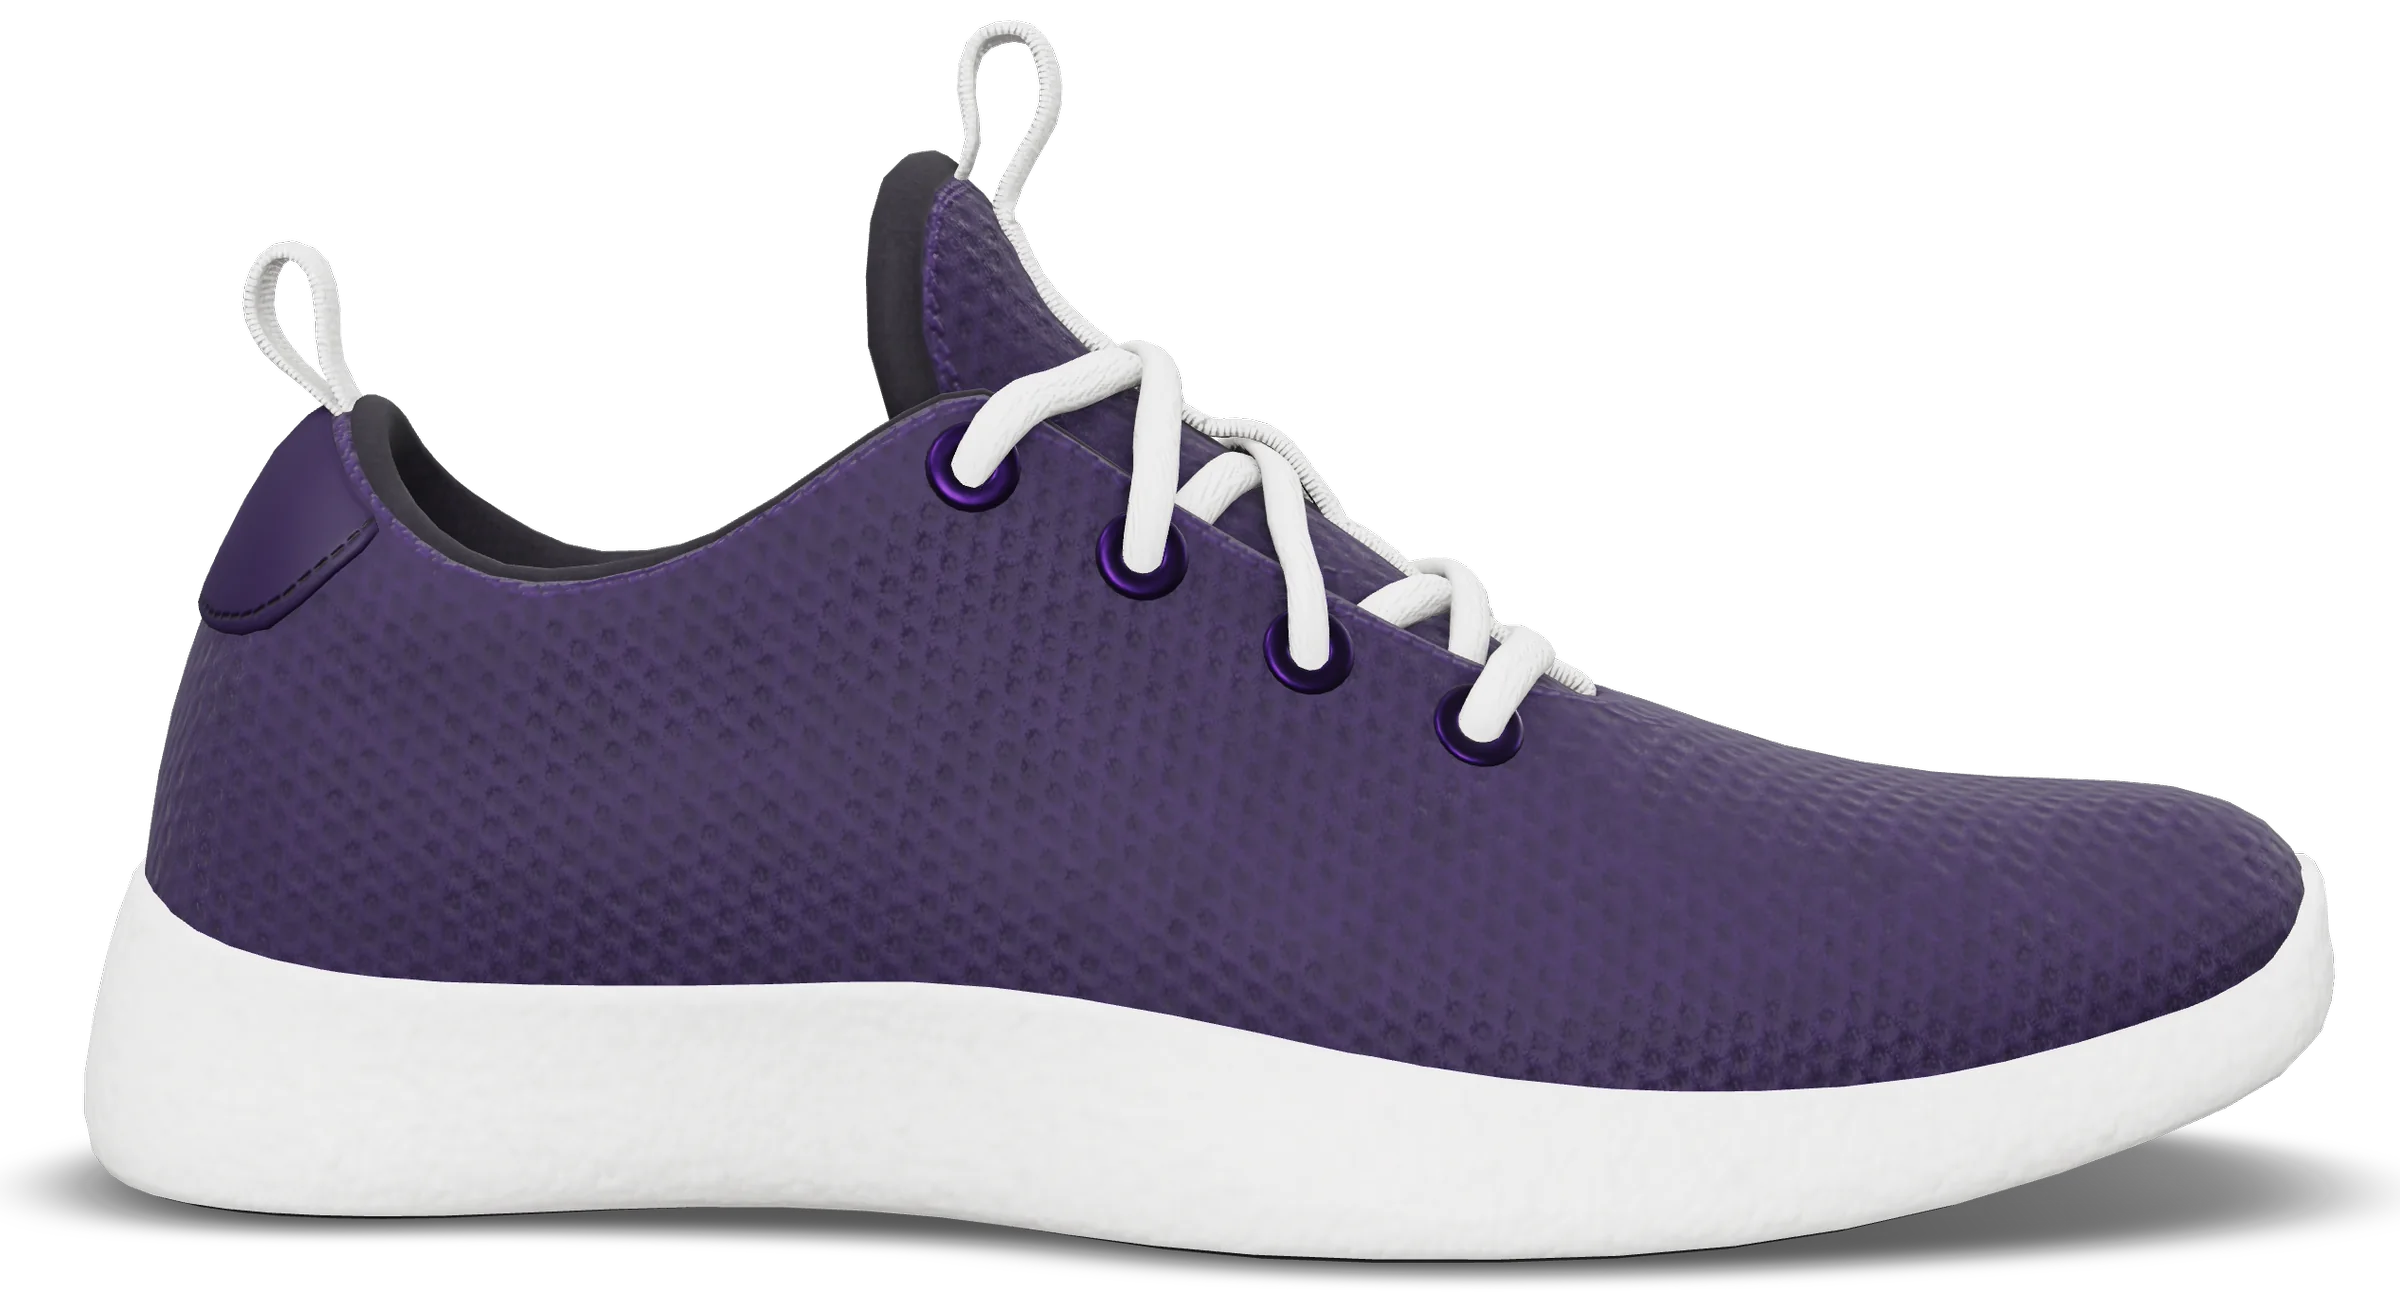
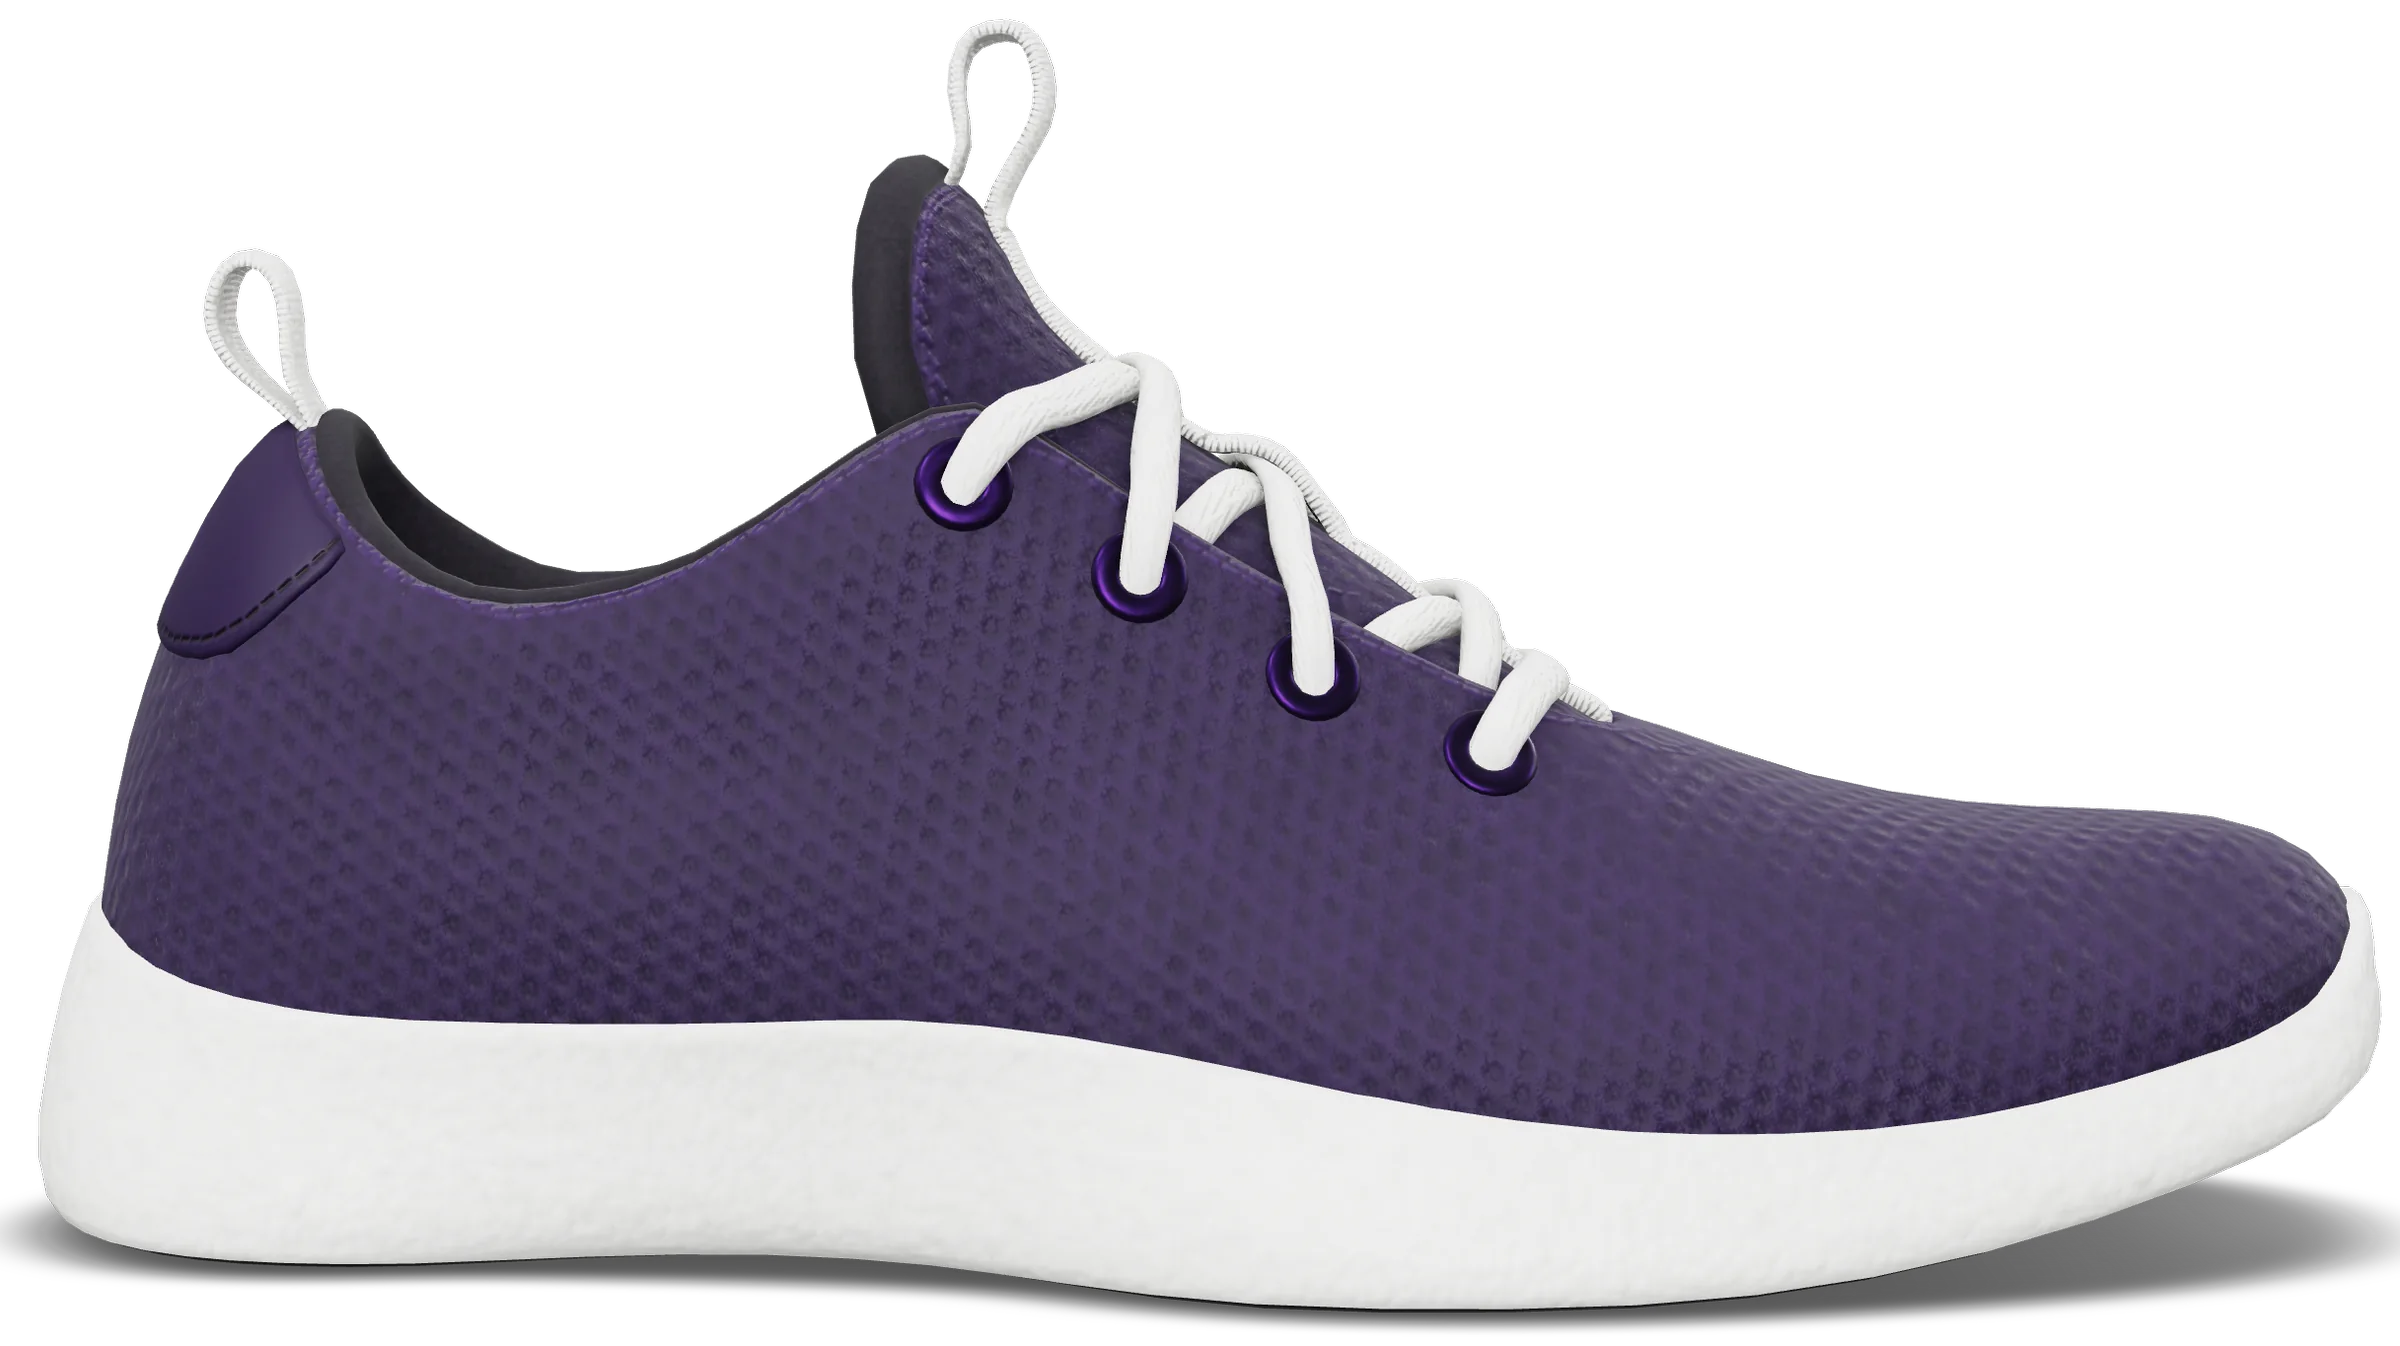
Glide in-page links by script, tighter hero still, checker fixes
- In-page links glide to their section from a click handler (KitScripts),
  instead of a global smooth scroll: keyboard focus and other scrolling stay
  instant, so focus never lands off screen; reduced motion keeps the jump.
- Hover colour changes back under a fifth of a second (--m-in 180ms,
  --m-out 220ms); entrances, pictures and panels keep the slower settle.
- The shoe material declares its uniforms before main() instead of after
  three's "common" include, which a strict shader lint reads as a name.
- Stills: the contact shadow stays under the sole and the hero is trimmed
  tighter, so the shoe fills more of the hero; share image redrawn.
- English: "with its upper in {color}" (no "a Ember").

Claude-Session: https://claude.ai/code/session_015datNaUvSG9x7KKiEkPYnX

diff --git a/apps/web/src/components/site/KitScripts.tsx b/apps/web/src/components/site/KitScripts.tsx
@@ -10,6 +10,10 @@ const SCRIPTS = ["/assets/system.js", "/assets/motion/motion.js", "/assets/layou
  * rewrite parts of the page (they split the statement into words and move
  * the steps' pictures), so running them before hydration would make React's
  * copy of the page disagree with the HTML.
+ *
+ * It also lets links to a section of the same page glide there instead of
+ * jumping. Only clicks on such links glide: keyboard focus and the browser's
+ * own scrolling stay instant, and reduced motion keeps the jump.
  */
 export function KitScripts() {
   useEffect(() => {
@@ -23,5 +27,27 @@ export function KitScripts() {
       document.body.appendChild(script);
     }
   }, []);
+
+  useEffect(() => {
+    const onClick = (event: MouseEvent) => {
+      if (event.defaultPrevented || event.button !== 0 || event.metaKey || event.ctrlKey || event.shiftKey || event.altKey) return;
+      const link = (event.target as Element | null)?.closest?.("a[href*='#']");
+      if (!(link instanceof HTMLAnchorElement) || link.target) return;
+      const url = new URL(link.href);
+      if (url.origin !== location.origin || url.pathname !== location.pathname || !url.hash) return;
+      const target = document.getElementById(decodeURIComponent(url.hash.slice(1)));
+      if (!target) return;
+      event.preventDefault();
+      const reduced = window.matchMedia("(prefers-reduced-motion: reduce)").matches;
+      target.scrollIntoView({ behavior: reduced ? "auto" : "smooth", block: "start" });
+      history.pushState(history.state, "", url.hash);
+      // Move focus with the view, as a jump to an anchor does, without a second scroll.
+      if (!target.matches("a, button, input, select, textarea, [tabindex]")) target.setAttribute("tabindex", "-1");
+      target.focus({ preventScroll: true });
+    };
+    document.addEventListener("click", onClick);
+    return () => document.removeEventListener("click", onClick);
+  }, []);
+
   return null;
 }

diff --git a/apps/web/public/assets/jianova.css b/apps/web/public/assets/jianova.css
@@ -152,14 +152,15 @@ html[lang="ar"] .hero h1 { line-height: 1.2; }
 
 /* ------------------------------------------------------------- motion
    Quiet luxury moves slowly and lands softly: the kit's timings, eased out
-   with a long tail (no bounce, nothing past its mark), a little longer than a
-   product tool's. Hover and press still answer at once; only the settling is
-   longer. Reduced motion keeps the kit's own rules (colour changes only). */
+   with a long tail (no bounce, nothing past its mark). Hovers and presses
+   still answer within a fifth of a second; entrances, pictures and panels
+   settle more slowly. Reduced motion keeps the kit's own rules (colour
+   changes only). In-page links glide to their section (KitScripts.tsx). */
 :root {
   --ease: cubic-bezier(.22, 1, .36, 1);
   --dur: 260ms;
-  --m-in: 240ms;
-  --m-out: 360ms;
+  --m-in: 180ms;
+  --m-out: 220ms;
   --m-press: 140ms;
   --m-panel: 320ms;
   --m-close: 220ms;
@@ -171,10 +172,6 @@ html[lang="ar"] .hero h1 { line-height: 1.2; }
   --m-enter-pace: 1.45;
 }
 
-/* In-page links glide to their section instead of jumping. */
-@media (prefers-reduced-motion: no-preference) {
-  html { scroll-behavior: smooth; }
-}
 
 /* Steps: the pictures cross-fade and settle more slowly, the text opens softly.
    (The moment's own CSS loads after this file, hence #steps.) */

diff --git a/apps/web/src/features/configurator/shoe-material.js b/apps/web/src/features/configurator/shoe-material.js
@@ -59,16 +59,16 @@ export function applyShoeMaterial(mesh) {
     Object.assign(shader.uniforms, uniforms);
     shader.vertexShader = shader.vertexShader
       .replace(
-        "#include <common>",
-        `#include <common>
-attribute float _part;
+        "void main() {",
+        `attribute float _part;
 uniform vec3 uPartColor[${SHOE_PARTS.length}];
 uniform float uPartSheen[${SHOE_PARTS.length}];
 uniform int uGlowPart;
 uniform float uGlow;
 varying vec3 vPartColor;
 varying float vPartSheen;
-varying float vPartGlow;`,
+varying float vPartGlow;
+void main() {`,
       )
       .replace(
         "#include <begin_vertex>",
@@ -80,13 +80,13 @@ vPartGlow = partIndex == uGlowPart ? uGlow : 0.0;`,
       );
     shader.fragmentShader = shader.fragmentShader
       .replace(
-        "#include <common>",
-        `#include <common>
-uniform vec3 uGlowColor;
+        "void main() {",
+        `uniform vec3 uGlowColor;
 uniform float uSheenTint;
 varying vec3 vPartColor;
 varying float vPartSheen;
-varying float vPartGlow;`,
+varying float vPartGlow;
+void main() {`,
       )
       .replace(
         "#include <map_fragment>",

diff --git a/apps/web/scripts/stills/render.html b/apps/web/scripts/stills/render.html
@@ -113,7 +113,7 @@ function contactShadow({ width, depth, far, blur, opacity, resolution = 1024, co
   };
 }
 
-const shadow = contactShadow({ width: size.x * 1.5, depth: size.z * 2.4, far: 0.55, blur: 7, opacity: 0.7 });
+const shadow = contactShadow({ width: size.x * 1.22, depth: size.z * 2.0, far: 0.55, blur: 6, opacity: 0.7 });
 scene.add(shadow.plane);
 
 /**
@@ -143,7 +143,7 @@ window.renderStill = (spec) => {
   let x0 = c.width, y0 = c.height, x1 = 0, y1 = 0;
   for (let y = 0; y < c.height; y++)
     for (let x = 0; x < c.width; x++)
-      if (data[(y * c.width + x) * 4 + 3] > 24) {
+      if (data[(y * c.width + x) * 4 + 3] > 48) {
         if (x < x0) x0 = x; if (x > x1) x1 = x;
         if (y < y0) y0 = y; if (y > y1) y1 = y;
       }

diff --git a/apps/web/src/app/[lang]/page.tsx b/apps/web/src/app/[lang]/page.tsx
@@ -72,7 +72,7 @@ export default async function Home({ params }: PageProps<"/[lang]">) {
                   srcSet="/images/shoe/hero-sm.webp 1200w, /images/shoe/hero.webp 2400w"
                   sizes="(min-width: 1440px) 1280px, 100vw"
                   width={2400}
-                  height={1311}
+                  height={1346}
                   alt={t.hero.alt}
                   fetchPriority="high"
                 />
